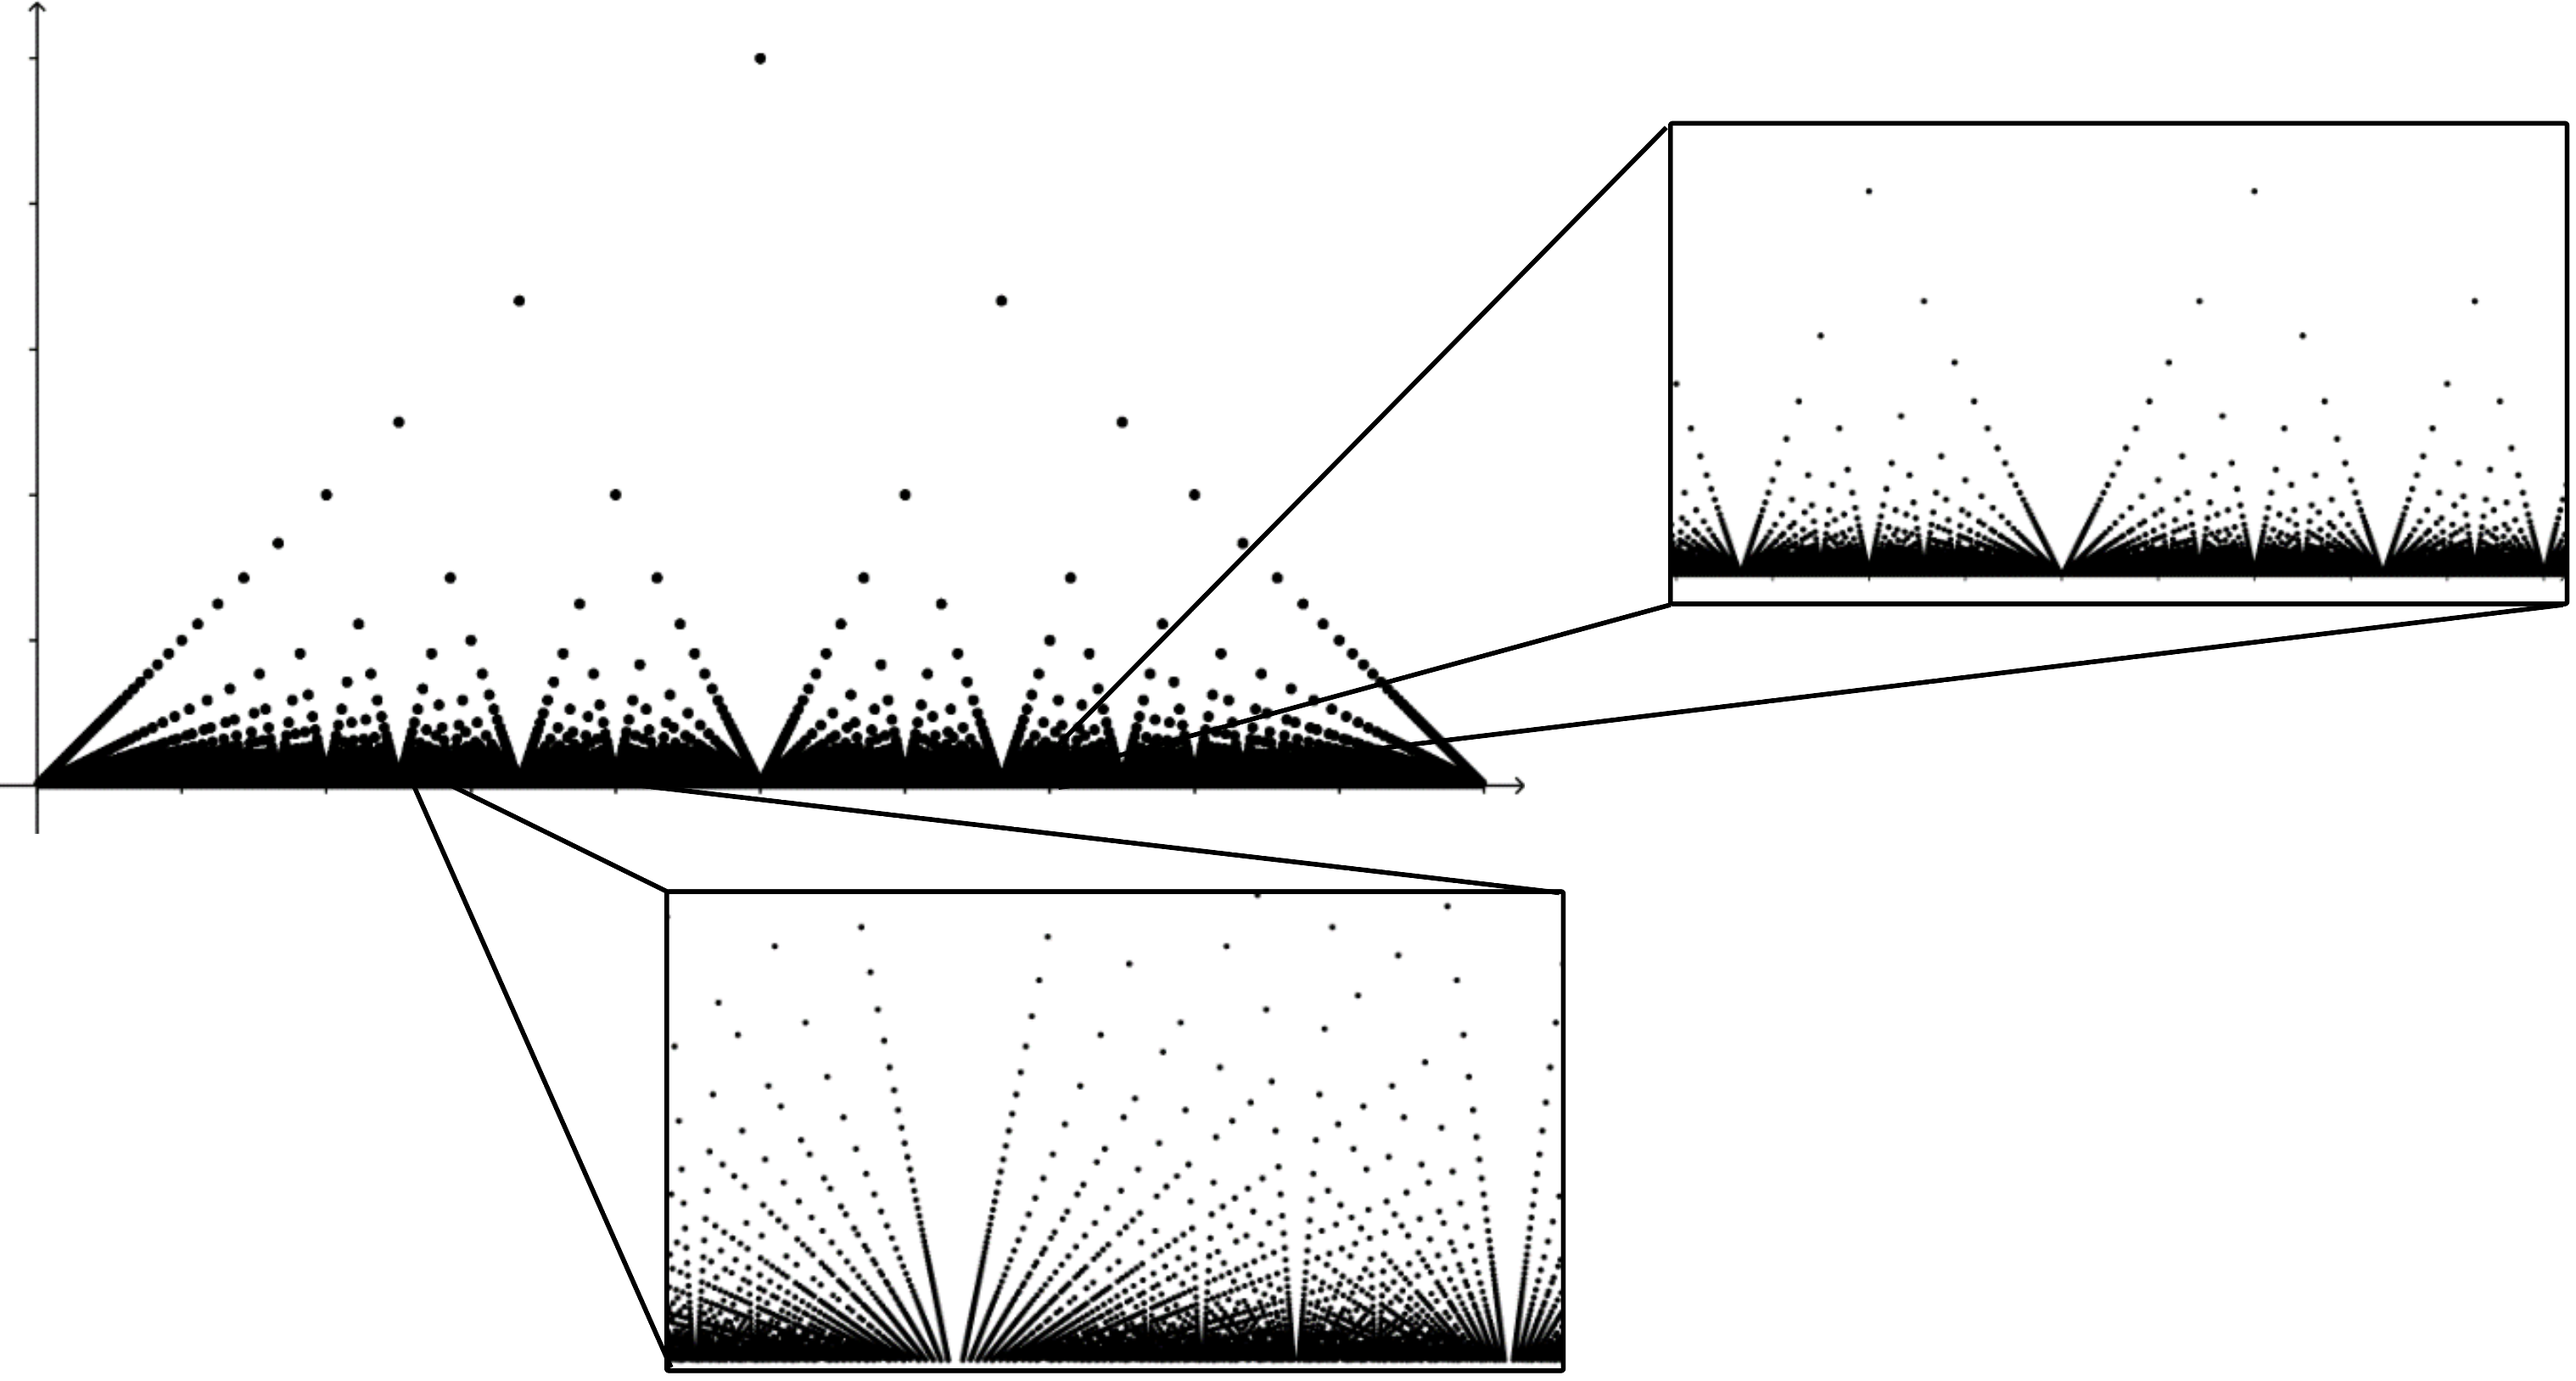
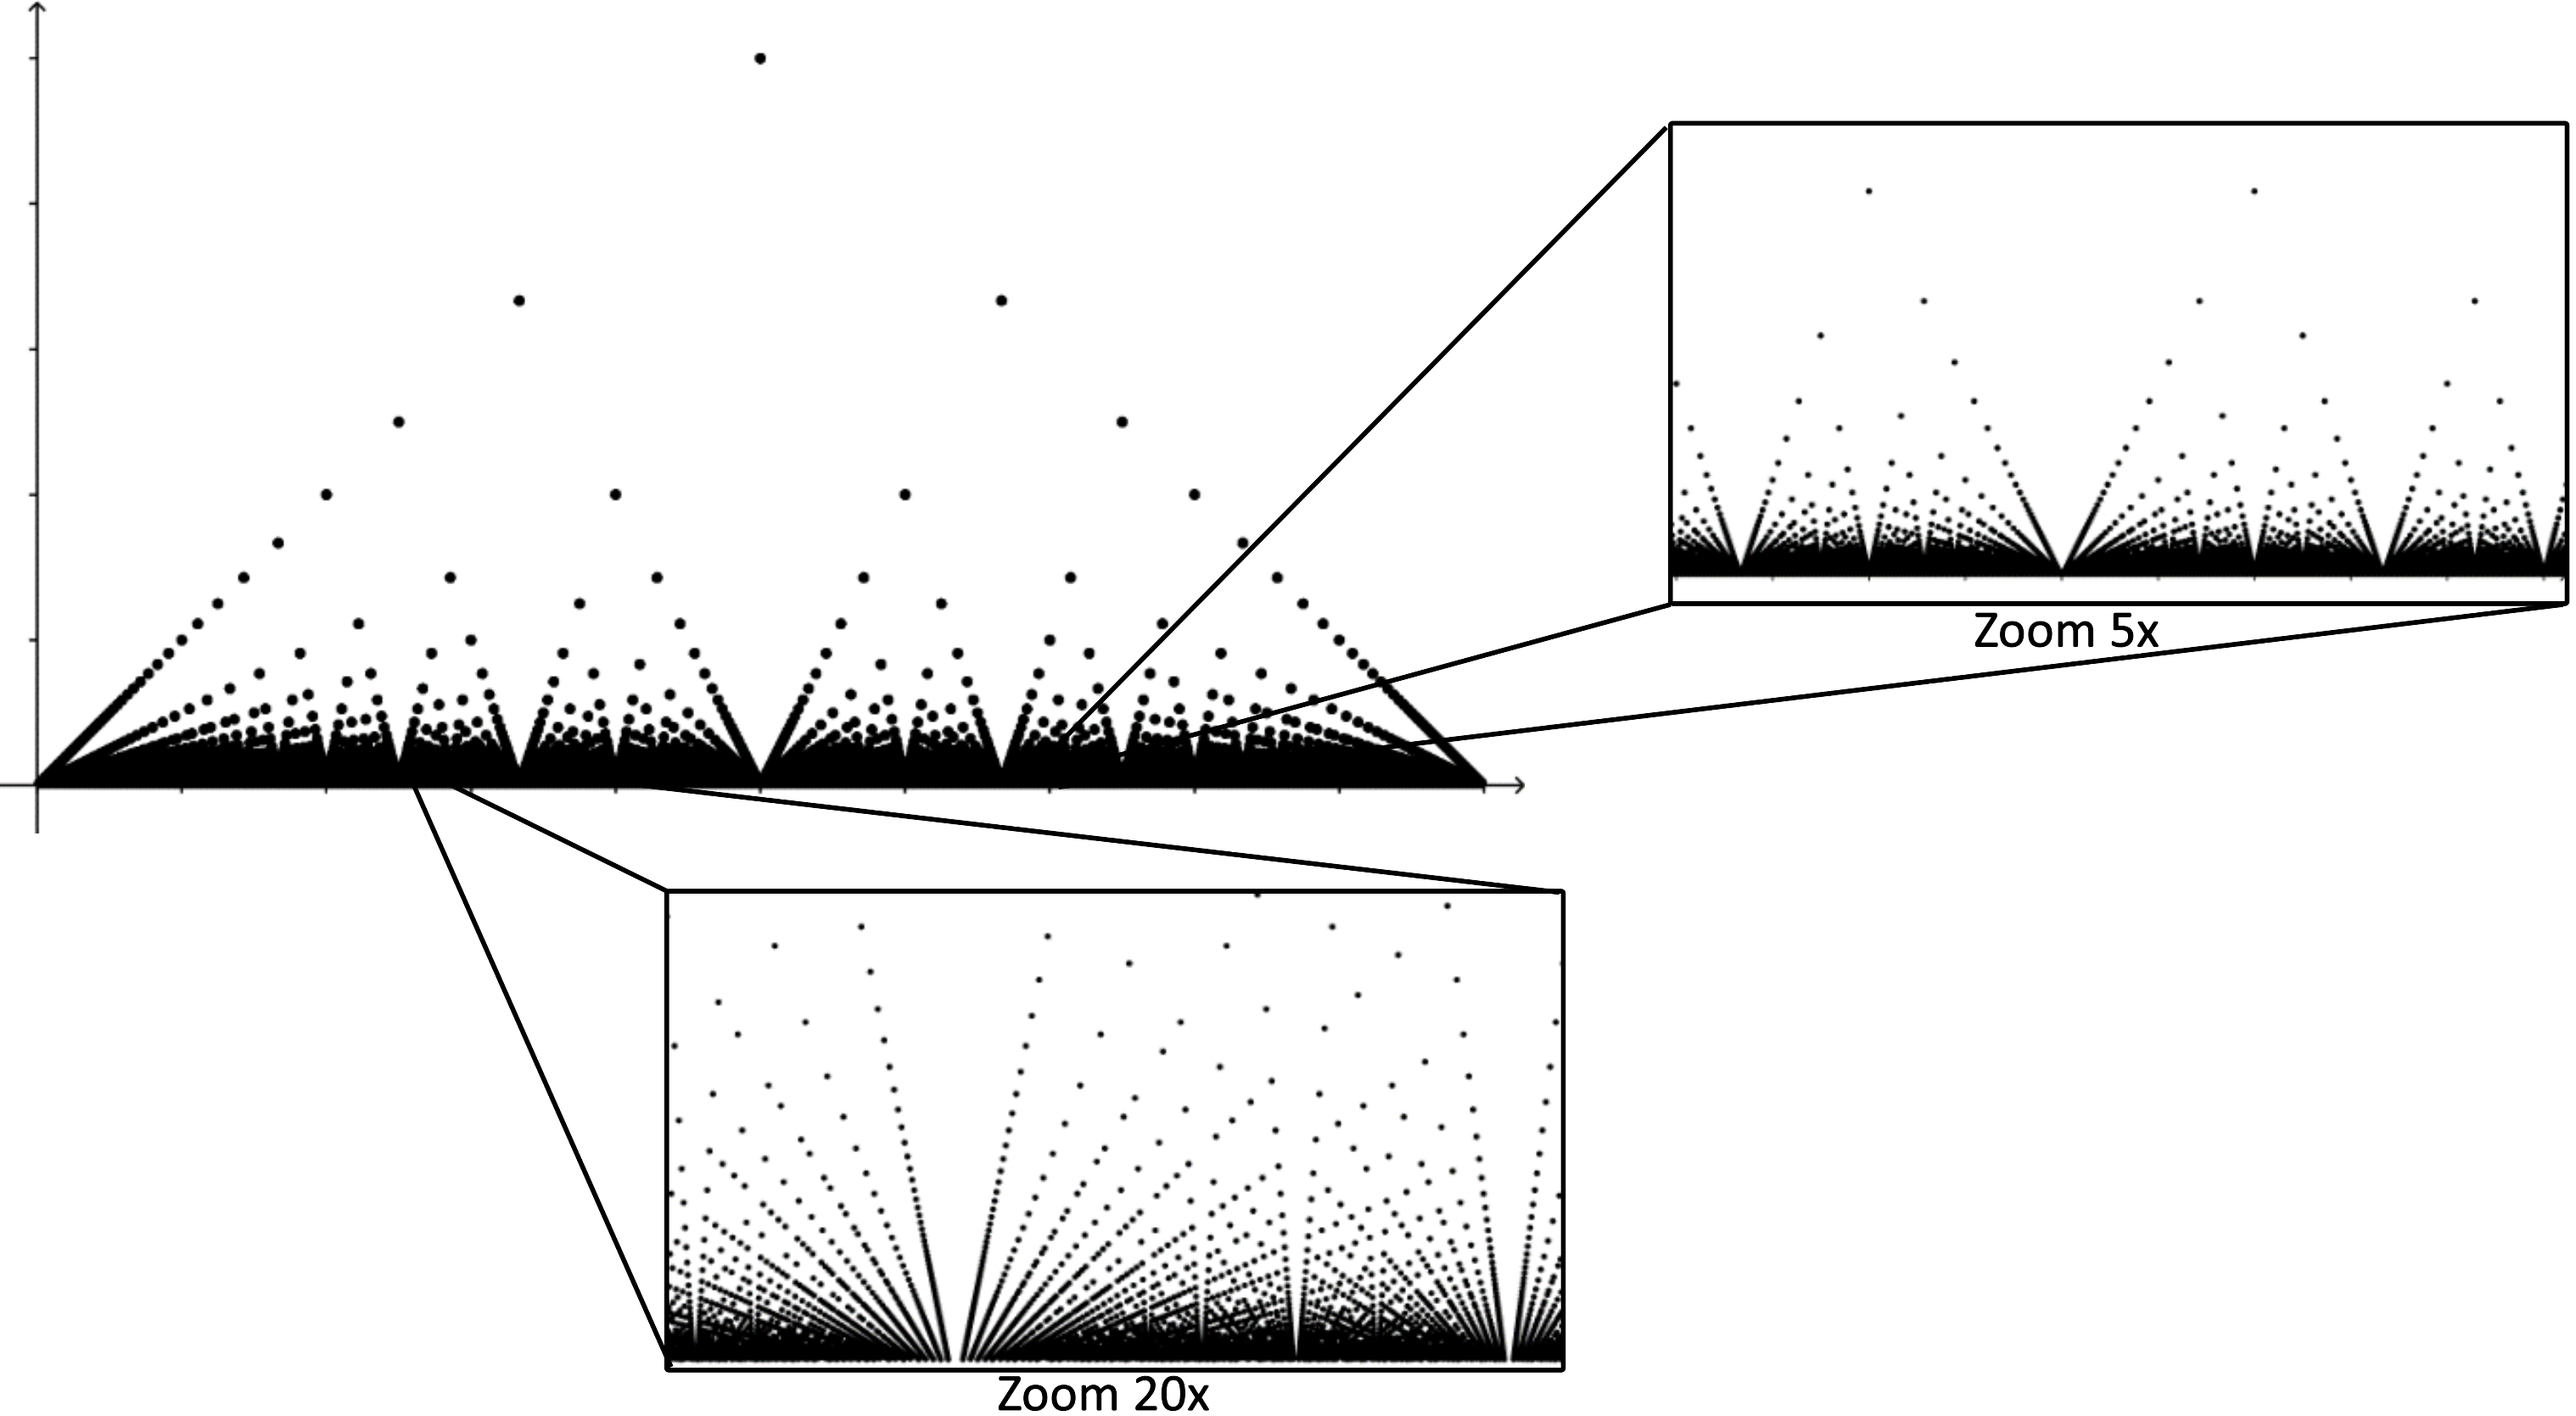
ok

diff --git a/math2400/thomae-function.html b/math2400/thomae-function.html
@@ -120,7 +120,7 @@
 			<section id="plot-zoom">
 				<h4>Plot</h4>
 				
-				<img style="width: 90%;"  data-src="images/thomae/thomae-zoom.png" />
+				<img style="width: 87%;"  data-src="images/thomae/thomae-zoom.png" />
 
 			</section>
 
@@ -143,18 +143,23 @@ thomae := Sequence(Sequence((p / q, GCD(p, q) / q), p, 1, q - 1), q, 2, n)
 	
 	<div class="left-txt size-70">
 		<p>
-			<strong>
-				Claim 1:
-			</strong>
-			Thomae's function <em>is continuous at each irrational</em> in $(0,1)$.
+			Thomae's function is:
 		</p>
 
-		<p>
-			<strong>
-				Claim 2:
-			</strong>
-			Thomae's function <em>is discontinuous at each rational</em> in $(0,1)$.
-		</p>
+		<ol style="width: 90%;line-height: 190%;">
+			<li class="fragment" data-fragment-index="0">
+				continuous at each irrational in $(0,1)$.
+			</li>
+			<li class="fragment" data-fragment-index="1">
+				discontinuous at each rational in $(0,1)$.
+			</li>
+			<li class="fragment" data-fragment-index="2">
+				Riemann integrable on $[0,1]$ and 
+			$\displaystyle \int_0^1 f = 0.$
+			
+			</li>
+		</ol>
+		
 
 	</div>
 
@@ -207,8 +212,7 @@ thomae := Sequence(Sequence((p / q, GCD(p, q) / q), p, 1, q - 1), q, 2, n)
 			</strong>
 			Because this collection is finite, we can find a  
 			$\delta>0$ small enough such that the interval $(a-\delta, a+\delta)$
-			lies within $(0,1)$ and contains none of these fractions,
-			expect possibly $a$ itself.
+			lies within $(0,1)$ and contains none of these fractions.
 			
 
 		</p>
@@ -234,11 +238,11 @@ thomae := Sequence(Sequence((p / q, GCD(p, q) / q), p, 1, q - 1), q, 2, n)
 		</p>
 
 		<p class="fragment" data-fragment-index="0">
-			Case 1: If $x=p/q$ is a rational in lowest terms, 
+			<em>Case 1</em> - If $x=p/q$ is a rational in lowest terms, 
 			<span class="fragment" data-fragment-index="1">
 				then 
 			\[
-			|\,f(x)-0|=|\,f(p/q)|=\frac{1}{q}\lt \frac{1}{N}\lt \epsilon,
+			|\,f(x)-0|=|\,f\left(\,p/q\right)|=\frac{1}{q}\lt \frac{1}{N}\lt \epsilon,
 			\]
 			</span>
 			<span class="fragment" data-fragment-index="2">
@@ -263,7 +267,7 @@ thomae := Sequence(Sequence((p / q, GCD(p, q) / q), p, 1, q - 1), q, 2, n)
 				Proof (cont):
 			</strong>
 			<br/><br/>
-			Case 2: If $x$ is a irrational, 
+			<em>Case 2</em> - If $x$ is a irrational, 
 			<span class="fragment" data-fragment-index="0">
 				then 
 			$|\,f(x)-0|=0\lt \epsilon$ as well.
@@ -338,7 +342,7 @@ thomae := Sequence(Sequence((p / q, GCD(p, q) / q), p, 1, q - 1), q, 2, n)
 			<span class="fragment" data-fragment-index="3">
 				then
 				\[
-				f(a) = f(p/q) =\frac{1}{q} \neq  \lim_{x\ra a} f(x),
+				f(a) = f(\,p/q) =\frac{1}{q} \neq  \lim_{x\ra a} f(x),
 				\]
 			</span>
 			<span class="fragment" data-fragment-index="7">
@@ -357,7 +361,7 @@ thomae := Sequence(Sequence((p / q, GCD(p, q) / q), p, 1, q - 1), q, 2, n)
 			<strong>
 				Claim 3:
 			</strong> 
-			Thomae's functions is Riemann integrable on $[0,1]$ and 
+			Thomae's functions <em>is Riemann integrable</em> on $[0,1]$ and 
 			\[
 			\displaystyle \int_0^1 f = 0.
 			\]
@@ -425,19 +429,22 @@ thomae := Sequence(Sequence((p / q, GCD(p, q) / q), p, 1, q - 1), q, 2, n)
 			<strong>
 				Proof (cont):
 			</strong>
-			Choose a partition $P$ such that the intervals $[t_{i-1}, t_i]$ which contain
-			some $x_j$ have a total length  $\lt \epsilon/2$.
-		</p>
-	</div>
-
-	<img style="width: 90%;" class="r-stretch fragment"  data-fragment-index="1" data-src="images/thomae/thomae-line2.svg" />
-
-	<div class="left-txt size-70">
-		<p class="fragment" data-fragment-index="2">
-			On each of the other intervals we will have $M_i\leq 1/n\lt \epsilon/2$.
+			Choose a partition $P$ such that 
+			<span class="fragment" data-fragment-index="0">
+				 the intervals $[t_{i-1}, t_i]$ which contain
+			some $x_j$ have a total length  $\lt \epsilon/2$. 
+			</span>
+			<span class="fragment" data-fragment-index="1">
+				On each of the other intervals we have $M_i\leq 1/n\lt \epsilon/2$.
+			</span>
 		</p>
 
+		
 	</div>
+
+	<img style="width: 90%;" class="r-stretch fragment"  data-fragment-index="2" data-src="images/thomae/thomae-line2.svg" />
+
+	
 </section>
 
 
